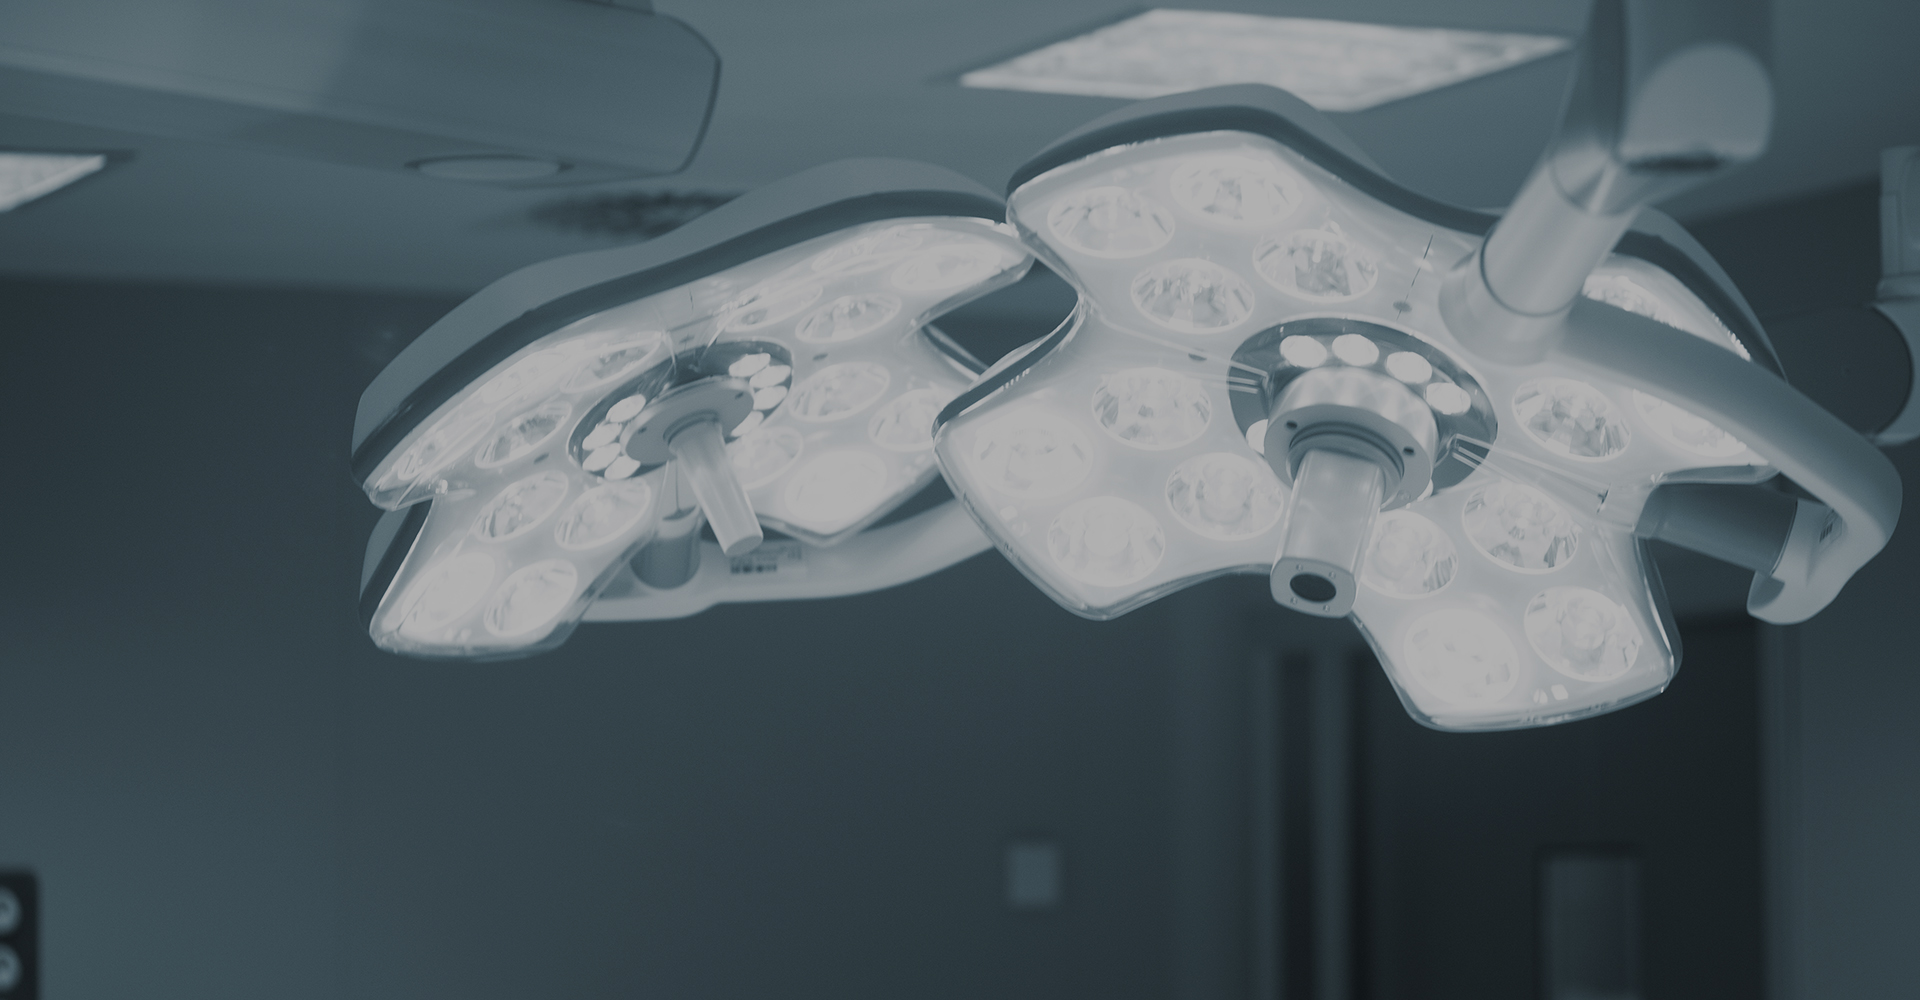
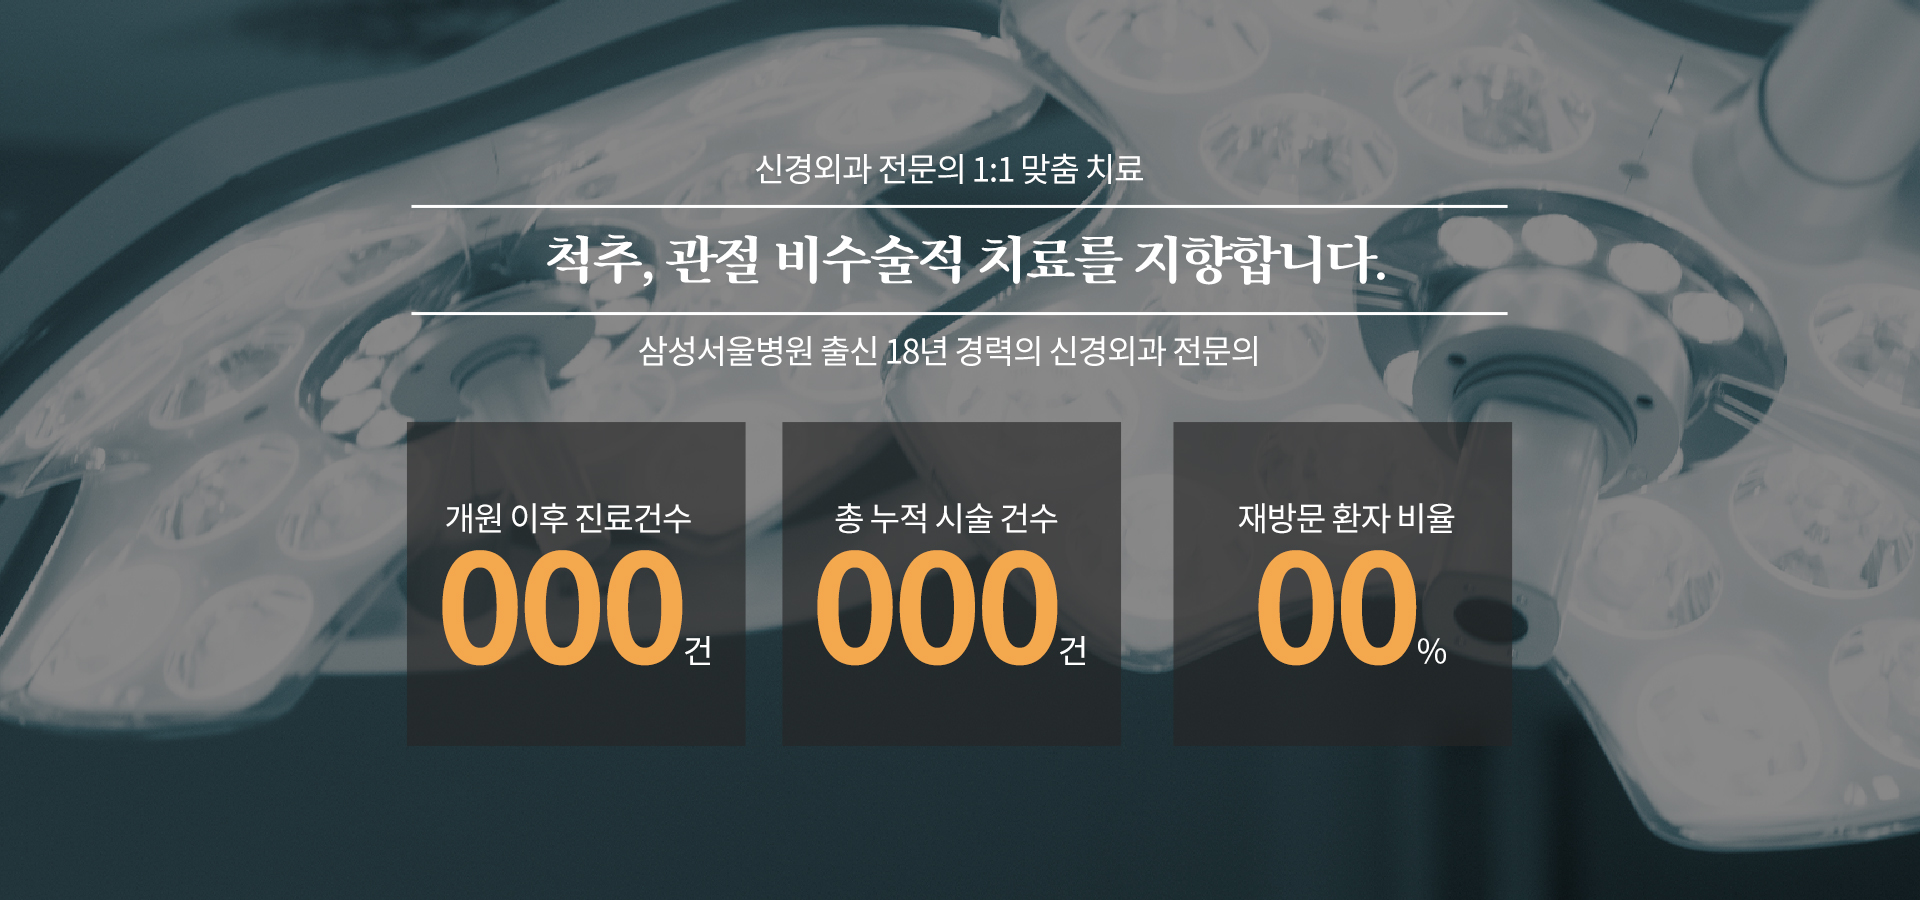
Add files via upload

diff --git a/index.html b/index.html
@@ -46,38 +46,16 @@
             <div class="swiper-wrapper">
 
                 <div class="swiper-slide">
-                    <div class="mainText text01">
-                        <h1>신경외과 전문의 1:1 진료.<br>
-                            척추, 관절 비수술적 치료를 지향합니다.
-                        </h1>
-                    </div>
                     <img src="./images/main_visual/main_visual01.jpg" alt="">
                 </div>
 
                 <div class="swiper-slide">
-                    <div class="mainText text02">
-                        <h1>개원 이후 진료 건수 000건<br>
-                            총 누적 시술 건수 0000건 <br>
-                            재방문 환자 비율 00%
-                        </h1>
-                    </div>
-                    <img src="./images/main_visual/main_visual03.jpg" alt="">
-                </div>
-
-                <div class="swiper-slide">
-                    <div class="mainText text03">
-                        <h1>물리치료, 도수치료 점심시간 가능. <br>
-                            내원객의 편의와 빠른 치료를 위해 점심시간 없는 연속 치료를 시행합니다.
-                        </h1>
-                         <br>
-                        <h2>
-                            2/16까지 평일 09:00 ~ 19:00 | 토요일 09:00 ~ 15:00
-                            <br>
-                            2/27부터 평일 09 ~ 18:00 | 토요일 09:00 ~ 14:00 
-                        </h2>
-                    </div>
                     <img src="./images/main_visual/main_visual02.jpg" alt="">
                 </div>
+
+                <!-- <div class="swiper-slide">
+                    <img src="./images/main_visual/main_visual02.jpg" alt="">
+                </div> -->
             </div>
             <div class="swiper-button-prev"></div>
             <div class="swiper-button-next"></div>

diff --git a/css/style.css b/css/style.css
@@ -53,7 +53,7 @@ header {
     /* outline: 2px solid #ededed; */
     background: #003d9b;
     box-shadow: 5px 5Px 20px rgba(51, 51, 51, 0.568);
-    width: 100%;
+    width: 100vw;
     position: relative;
     display: flex;
     justify-content: center;
@@ -77,8 +77,7 @@ header img {
 
 
 #main_visual {
-    width: 100%;
-    height: 800px;
+    width: 100vw;
     overflow: hidden;
     display: flex;
     justify-content: center;
@@ -87,7 +86,6 @@ header img {
 
 #main_visual img {
     width: 100%;
-    height: 100%;
 }
 
 #main_visual .swiper-wrapper {
@@ -96,34 +94,13 @@ header img {
 
 #main_visual .swiper-button-prev {
     color: #fff;
+    margin-left: 20px;
 }
 
 #main_visual .swiper-button-next {
     color: #fff;
+    margin-right: 20px;
 }
-
-
-#main_visual .mainText {
-    width: 100%;
-    position: absolute;
-    display: block; 
-    left: 50%;
-    transform: translateX(-50%);
-    top: 40%;
-    text-align: center;
-    color: #fff;
-}
-
-#main_visual .mainText h1 {
-    font-weight: 500;
-    font-size: 48px;
-}
-
-#main_visual .mainText h2 {
-    font-weight: 300;
-    font-size: 24px;
-}
-
 
 
 
@@ -151,7 +128,7 @@ header img {
     display: flex;
     justify-items: center;
     justify-content: center;
-    width: auto;
+    width: 100vw;
     position: relative;
 }
 
@@ -197,7 +174,7 @@ header img {
     display: block;
     /* border-top: 7px solid #000; */
     background: #fff;
-    padding-top: 100px;
+    padding-top: 50px;
     position: relative;
     
     

diff --git a/js/main.js b/js/main.js
@@ -53,6 +53,37 @@ window.onload = function() {
         },
         
       });
+
+      $(document).ready(function(){
+
+        clientW = $("body").width();
+    
+       if(clientW == 1180){
+          $("#dosu .text h1").css("font-size","80px");
+          $("#dosu .text h5").css("font-size","40px");
+          $("#dosu .text").css("top","40px");
+
+          $("#interior .text h1").css("font-size","80px");
+          $("#interior .text h5").css("font-size","40px");
+          $("#interior .text").css("top","40px");
+
+          $("#time .time_text h1").css("font-size","80px");
+          $("#time .time_text h5").css("font-size","40px");
+          $("#time .time_text").css("top","120px");
+
+          $("header").css("height", "160px")
+          $("header img").css("width", "500px")
+          $("header img").css("top", "30px")
+
+          $("#main_visual").css("zoom", "1.5")
+          $("#main_visual").css("transform", "translateX(-17%)")
+
+
+
+       }
+    });
+      
+    
 });
 
 
